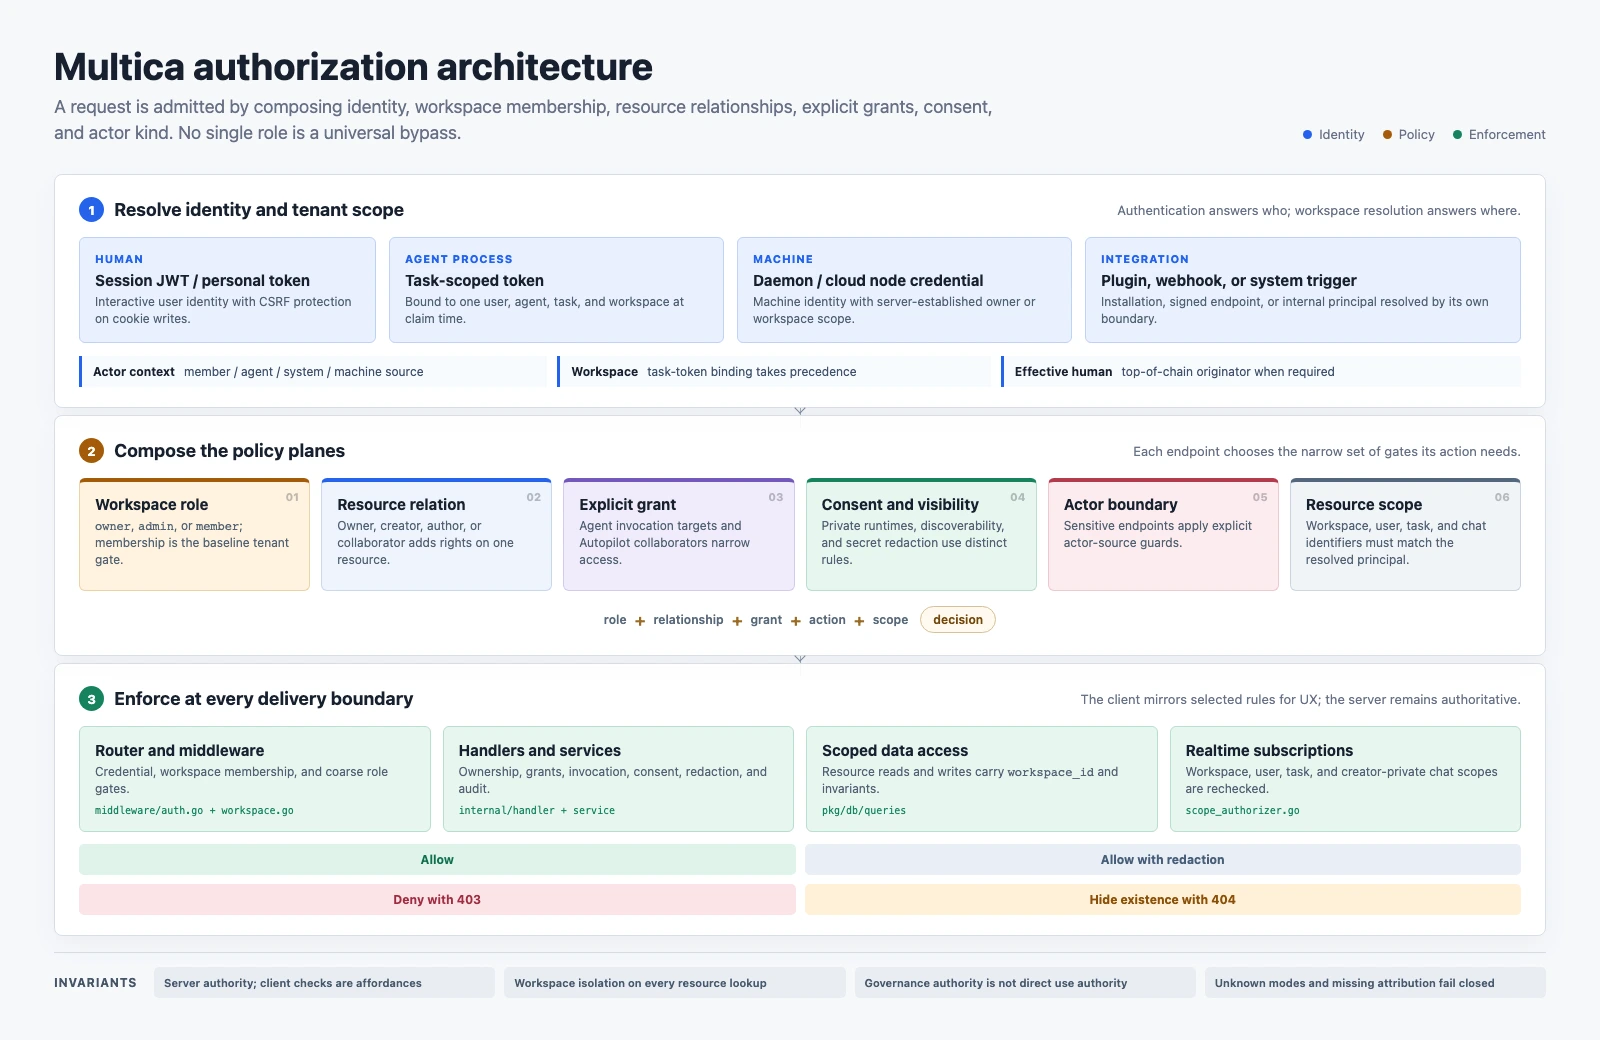
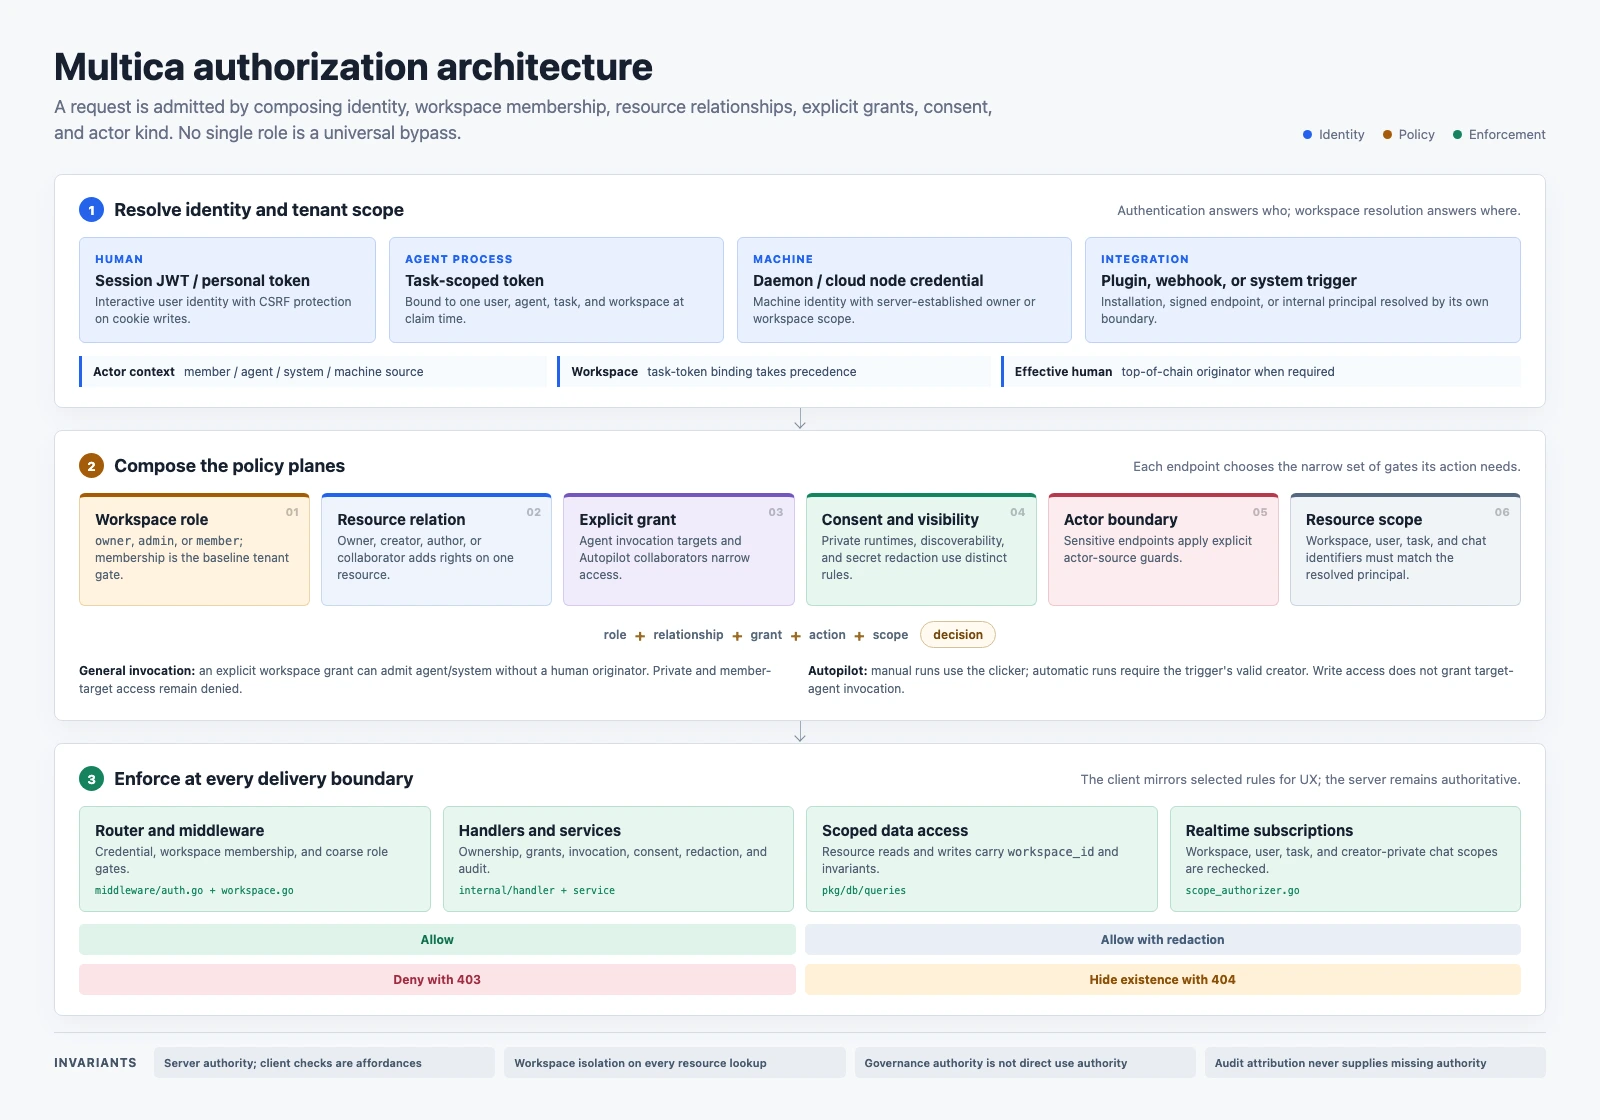
docs(auth): clarify run authority and invocation boundaries

diff --git a/apps/docs/diagrams/authorization-architecture.html b/apps/docs/diagrams/authorization-architecture.html
@@ -1,7 +1,7 @@
 <!doctype html>
 <!--
-  Render from the repository root at 1600x1040, then encode as WebP:
-  pnpm exec playwright screenshot --viewport-size="1600,1040" "file://$(pwd)/apps/docs/diagrams/authorization-architecture.html?lang=en&export=1" /tmp/authorization-architecture.png
+  Render from the repository root at 1600x1120, then encode as WebP:
+  pnpm exec playwright screenshot --viewport-size="1600,1120" "file://$(pwd)/apps/docs/diagrams/authorization-architecture.html?lang=en&export=1" /tmp/authorization-architecture.png
   node --input-type=module -e "import sharp from 'sharp'; await sharp('/tmp/authorization-architecture.png').webp({quality: 92}).toFile('apps/docs/public/images/docs/authorization-architecture.webp')"
 -->
 <html lang="en">
@@ -352,6 +352,19 @@
         color: #74480e;
       }
 
+      .run-notes {
+        display: grid;
+        grid-template-columns: repeat(2, minmax(0, 1fr));
+        gap: 16px;
+        margin-top: 14px;
+        color: #526173;
+        font-size: 12px;
+        line-height: 1.5;
+      }
+
+      .run-notes p { margin: 0; }
+      .run-notes b { color: var(--ink); }
+
       .enforcement-grid {
         display: grid;
         grid-template-columns: repeat(4, 1fr);
@@ -433,7 +446,7 @@
 
       body[data-export="true"] {
         width: 1600px;
-        height: 1040px;
+        height: 1120px;
         overflow: hidden;
         padding: 46px 54px 42px;
       }
@@ -516,6 +529,7 @@
         }
 
         .identity-summary { grid-template-columns: 1fr; }
+        .run-notes { grid-template-columns: 1fr; gap: 10px; }
         .policy-grid { grid-template-columns: repeat(2, minmax(0, 1fr)); }
 
         .composition {
@@ -603,7 +617,7 @@
         </div>
         <div class="identity-summary">
           <div class="identity-chip" data-i18n-html="actorContext"><b>Actor context</b> member / agent / system / machine source</div>
-          <div class="identity-chip" data-i18n-html="workspaceContext"><b>Workspace</b> token binding takes precedence</div>
+          <div class="identity-chip" data-i18n-html="workspaceContext"><b>Workspace</b> task-token binding takes precedence</div>
           <div class="identity-chip" data-i18n-html="effectiveHuman"><b>Effective human</b> top-of-chain originator when required</div>
         </div>
       </section>
@@ -651,6 +665,10 @@
         <div class="composition">
           <span data-i18n="compositionRole">role</span><span class="plus">+</span><span data-i18n="compositionRelationship">relationship</span><span class="plus">+</span><span data-i18n="compositionGrant">grant</span><span class="plus">+</span><span data-i18n="compositionAction">action</span><span class="plus">+</span><span data-i18n="compositionScope">scope</span><span class="result" data-i18n="compositionDecision">decision</span>
         </div>
+        <div class="run-notes">
+          <p data-i18n-html="generalInvocation"><b>General invocation:</b> an explicit workspace grant can admit agent/system without a human originator. Private and member-target access remain denied.</p>
+          <p data-i18n-html="autopilotInvocation"><b>Autopilot:</b> manual runs use the clicker; automatic runs require the trigger's valid creator. Write access does not grant target-agent invocation.</p>
+        </div>
       </section>
 
       <div class="connector"></div>
@@ -696,7 +714,7 @@
         <span data-i18n="invariantServer">Server authority; client checks are affordances</span>
         <span data-i18n="invariantWorkspace">Workspace isolation on every resource lookup</span>
         <span data-i18n="invariantGovernance">Governance authority is not direct use authority</span>
-        <span data-i18n="invariantFailClosed">Unknown modes and missing attribution fail closed</span>
+        <span data-i18n="invariantAuthority">Audit attribution never supplies missing authority</span>
       </footer>
     </main>
     <script>
@@ -747,6 +765,8 @@
           compositionAction: "action",
           compositionScope: "scope",
           compositionDecision: "decision",
+          generalInvocation: "<b>General invocation:</b> an explicit workspace grant can admit agent/system without a human originator. Private and member-target access remain denied.",
+          autopilotInvocation: "<b>Autopilot:</b> manual runs use the clicker; automatic runs require the trigger's valid creator. Write access does not grant target-agent invocation.",
           enforcementTitle: "Enforce at every delivery boundary",
           enforcementSubtitle: "The client mirrors selected rules for UX; the server remains authoritative.",
           routerTitle: "Router and middleware",
@@ -765,7 +785,7 @@
           invariantServer: "Server authority; client checks are affordances",
           invariantWorkspace: "Workspace isolation on every resource lookup",
           invariantGovernance: "Governance authority is not direct use authority",
-          invariantFailClosed: "Unknown modes and missing attribution fail closed",
+          invariantAuthority: "Audit attribution never supplies missing authority",
         },
         zh: {
           pageTitle: "Multica 权限架构",
@@ -813,6 +833,8 @@
           compositionAction: "操作",
           compositionScope: "范围",
           compositionDecision: "权限决策",
+          generalInvocation: "<b>通用调用：</b>显式的工作区授权可允许没有人类发起者的 agent/system 调用；私有和指定成员授权仍拒绝此类调用。",
+          autopilotInvocation: "<b>自动化：</b>手动运行按点击者授权；自动运行必须验证触发器创建者。编辑权限不等于目标智能体调用权。",
           enforcementTitle: "在每个数据交付边界执行权限检查",
           enforcementSubtitle: "客户端为体验镜像部分规则，服务端始终是最终权威。",
           routerTitle: "路由与中间件",
@@ -831,7 +853,7 @@
           invariantServer: "服务端拥有最终权限；客户端检查只改善体验",
           invariantWorkspace: "每次资源查询都必须保持工作区隔离",
           invariantGovernance: "治理权限不等于直接使用权限",
-          invariantFailClosed: "未知模式和缺失归因默认拒绝",
+          invariantAuthority: "审计归因不能补足缺失的授权身份",
         },
       };
 
